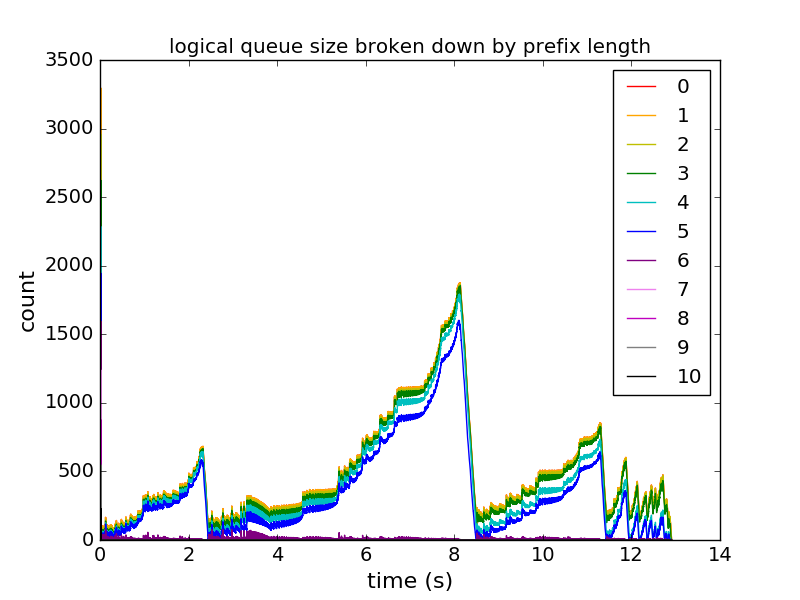
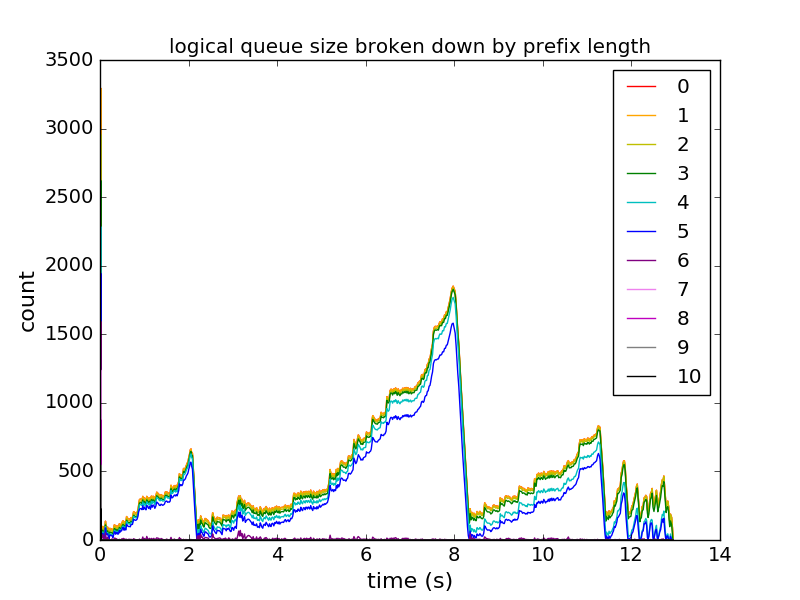
Add figs for best and max prefix length over time

Changed region(s): [[0.125, 0.48, 0.8438, 0.9], [0.5, 0.87, 0.5312, 0.9]]

diff --git a/eval/scratch.py b/eval/scratch.py
@@ -21,17 +21,18 @@ def parse_prefix_lengths(p):
 def parse_prefix_sums(p):
     return np.sum([int(q.split(':')[1]) for q in p.split(';') if q])
 
-# Command run:  ./bbcache -c -p 1 -r 0.001 ../data/tdata_R.out ../data/tdata_R.label
+# Command run:  ./bbcache -c -p 1 -r 0.001 -f 100 ../data/tdata_R.out ../data/tdata_R.label
+# Yields log file with 739 records
 
 log_dir = '../logs/'
-log_fname = 'for-tdata_R.out-curiosity-with_prefix_perm_map-max_num_nodes=100000-c=0.0010000-v=1.txt'
+log_fname = 'for-tdata_R.out-curiosity-with_prefix_perm_map-max_num_nodes=100000-c=0.0010000-v=1-f=100.txt'
 
 lw = 2  # linewidth
 ms = 9  # markersize
 fs = 16 # fontsize
 
 c = float(log_fname.split('c=')[1].split('-')[0])
-nrules = 377    # should have a way to get this automatically
+nrules = 377    # should have a way to get this automatically, e.g., via `wc -l ../data/tdata_R.out`
 
 log_fname = os.path.join(log_dir, log_fname)
 x = tb.tabarray(SVfile=log_fname)
@@ -119,7 +120,7 @@ assert ([int(name) for name in z.dtype.names] == range(max_length + 1))
 zc = z.extract()[:, ::-1].cumsum(axis=1)[:, ::-1]
 color_vec = ['r', 'orange', 'y', 'g', 'c', 'b', 'purple', 'violet', 'm', 'gray', 'k']
 
-pylab.figure(4)
+pylab.figure(6)
 pylab.clf()
 for length in range(max_length + 1):
     pylab.plot(x['total_time'], zc[:, length], color=color_vec[length])
@@ -131,6 +132,61 @@ pylab.xticks(fontsize=(fs-2))
 pylab.yticks(fontsize=(fs-2))
 pylab.draw()
 pylab.savefig('../figs/ela-queue.png')
+
+pylab.figure(7)
+pylab.clf()
+pylab.subplot(2, 1, 1)
+pylab.plot(x['total_time'], x['tree_prefix_length'], 'b-', linewidth=lw)
+#pylab.xlabel('time (s)', fontsize=fs)
+pylab.ylabel('length', fontsize=fs)
+pylab.title('length of rule list with current best objective', fontsize=fs)
+pylab.xticks(fontsize=(fs-2))
+pylab.yticks(fontsize=(fs-2))
+ax = list(pylab.axis())
+ax[3] = ax[3] + 0.2
+pylab.axis(ax)
+pylab.legend(['complete execution'], loc='lower right')
+
+pylab.subplot(2, 1, 2)
+pylab.plot(x['total_time'][:(imin+1)], x['tree_prefix_length'][:(imin+1)], 'b-', linewidth=lw)
+pylab.xlabel('time (s)', fontsize=fs)
+pylab.ylabel('length', fontsize=fs)
+#pylab.title('length of rule list with current best objective', fontsize=fs)
+pylab.xticks(fontsize=(fs-2))
+pylab.yticks(fontsize=(fs-2))
+ax = list(pylab.axis())
+ax[3] = ax[3] + 0.2
+pylab.axis(ax)
+pylab.legend(['optimization phase'], loc='lower right')
+pylab.draw()
+pylab.savefig('../figs/ela-prefix-length.png')
+
+max_len_check = x['tree_min_objective'] / c
+max_len_check[max_len_check > nrules] = nrules
+max_len_check[x['tree_min_objective'] % c == 0] -= 1
+max_len_check = np.cast[int](max_len_check)
+
+pylab.figure(8)
+pylab.clf()
+pylab.subplot(2, 1, 1)
+pylab.plot(x['total_time'], max_len_check, 'b-', linewidth=lw)
+#pylab.xlabel('time (s)', fontsize=fs)
+pylab.ylabel('length', fontsize=fs)
+pylab.title('upper bound on prefix length in remaining search space', fontsize=fs)
+pylab.xticks(fontsize=(fs-2))
+pylab.yticks(fontsize=(fs-2))
+pylab.legend(['complete execution'])
+
+pylab.subplot(2, 1, 2)
+pylab.plot(x['total_time'][:(imin+1)], max_len_check[:(imin+1)], 'b-', linewidth=lw)
+pylab.xlabel('time (s)', fontsize=fs)
+pylab.ylabel('length', fontsize=fs)
+#pylab.title('length of rule list with current best objective', fontsize=fs)
+pylab.xticks(fontsize=(fs-2))
+pylab.yticks(fontsize=(fs-2))
+pylab.legend(['optimization phase'])
+pylab.draw()
+pylab.savefig('../figs/ela-max-length-check.png')
 
 total_space_size = space.state_space_size(nrules=nrules, min_objective=default_objective, c=c)
 remaining_space_size = [space.remaining_search_space(nrules=nrules, min_objective=current_objective, c=c, prefix_lengths=parse_prefix_lengths(pl)) for (current_objective, pl) in x[['tree_min_objective', 'prefix_lengths']]]

diff --git a/paper/content.tex b/paper/content.tex
@@ -2657,7 +2657,9 @@ Fraction of search space we've proven we've handled
 
 \item Figure~\ref{fig:max-length},
 Max prefix length over time (computed from objective value);
-maybe also add the best prefix length over time
+
+\item Figure~\ref{fig:prefix-length},
+Best prefix length over time
 
 \item Some characterization of the number of solutions close to optimal
 (plot number of suboptimal solutions vs amount of suboptimality,
@@ -2800,9 +2802,17 @@ and the bottom plot highlights the verification phase.}
 
 \begin{figure}[t!]
 \begin{center}
-\includegraphics[width=0.65\textwidth]{figs/sketch-max-length.png}
+%\includegraphics[width=0.65\textwidth]{figs/sketch-max-length.png}
+\includegraphics[width=0.8\textwidth]{figs/ela-max-length-check.png}
 \end{center}
-\caption{Max prefix length over time (computed from objective value);
-maybe also add the best prefix length over time}
+\caption{Max prefix length over time (computed from objective value)}
 \label{fig:max-length}
+\end{figure}
+
+\begin{figure}[t!]
+\begin{center}
+\includegraphics[width=0.8\textwidth]{figs/ela-prefix-length.png}
+\end{center}
+\caption{Best prefix length over time}
+\label{fig:prefix-length}
 \end{figure}

diff --git a/src/bbound.cc b/src/bbound.cc
@@ -389,7 +389,7 @@ void bbound_queue(CacheTree<N>* tree,
             printf("iter: %zu, tree: %zu, queue: %zu, time elapsed: %f\n",
                    num_iter, tree->num_nodes(), q->size(), time_diff(start));
         }
-        if ((num_iter % logger.getFrequency()) == 0)   // make dump state frequency a parameter
+        if ((num_iter % logger.getFrequency()) == 0)
             logger.dumpState();     // want ~1000 records for detailed figures
     }
     logger.dumpState(); // second last log record (before queue elements deleted)
